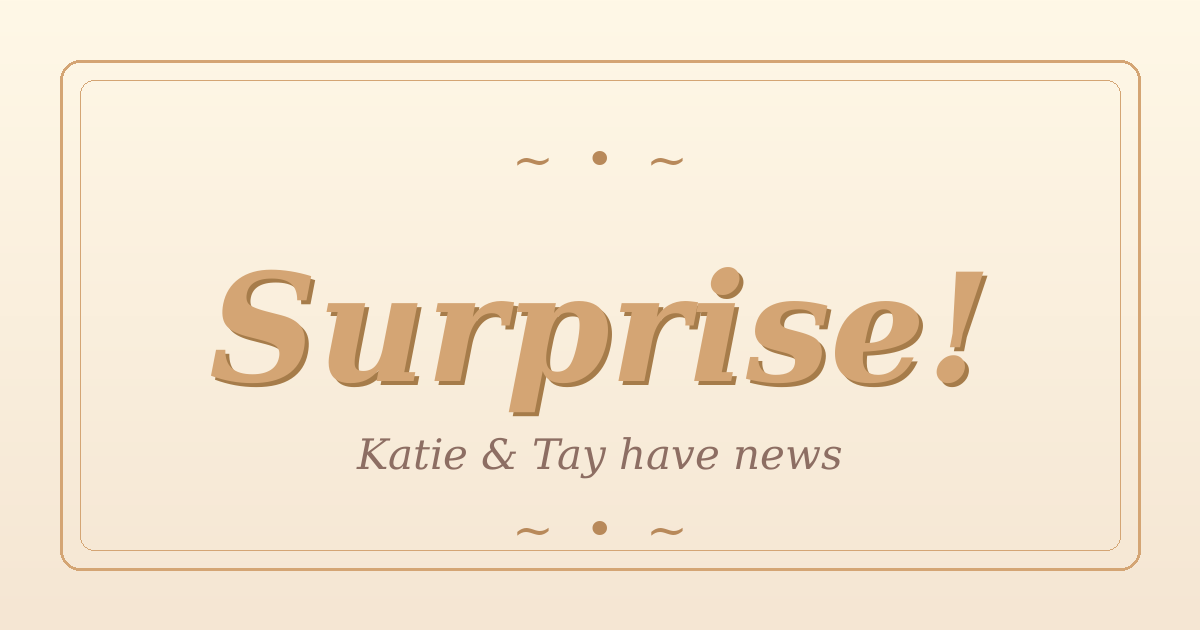
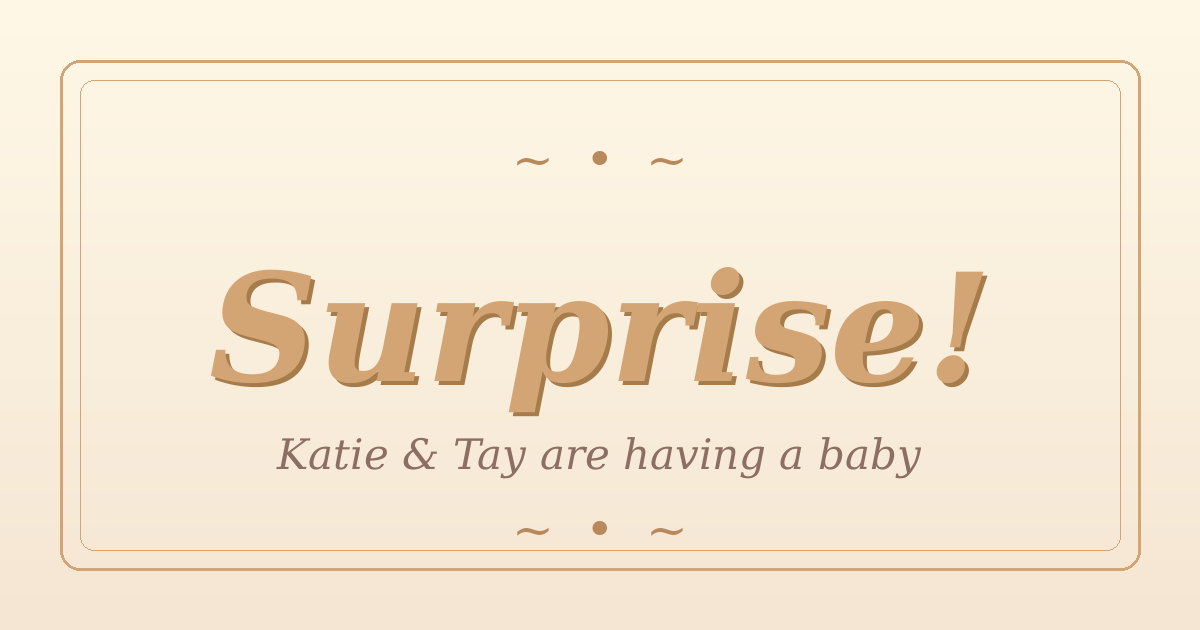
Add files via upload

Changed region(s): [[0.2158, 0.6937, 0.7708, 0.754]]

diff --git a/index.html b/index.html
@@ -3,18 +3,18 @@
 <head>
 <meta charset="UTF-8">
 <meta name="viewport" content="width=device-width, initial-scale=1.0">
-<title>Katie & Tay have news!</title>
+<title>Katie & Tay are having a baby!</title>
 
 <!-- Link preview tags (iMessage, WhatsApp, Facebook, etc.) -->
-<meta property="og:title" content="Katie & Tay have news!">
-<meta property="og:description" content="A surprise is waiting for you...">
+<meta property="og:title" content="Katie & Tay are having a baby!">
+<meta property="og:description" content="Is it a boy or a girl?">
 <meta property="og:image" content="preview.png">
 <meta property="og:type" content="website">
 
 <!-- Twitter/X preview -->
 <meta name="twitter:card" content="summary_large_image">
-<meta name="twitter:title" content="Katie & Tay have news!">
-<meta name="twitter:description" content="A surprise is waiting for you...">
+<meta name="twitter:title" content="Katie & Tay are having a baby!">
+<meta name="twitter:description" content="Is it a boy or a girl?">
 <meta name="twitter:image" content="preview.png">
 
 <style>
@@ -174,7 +174,7 @@
   <!-- Initial screen -->
   <div class="intro" id="intro">
     <h1>A Little Surprise...</h1>
-    <p>Someone special wanted to share some exciting news with you!</p>
+    <p>Katie and Tay wanted to share some exciting news with you!</p>
     <button class="reveal-btn" onclick="reveal()">Tap to Reveal 🍼</button>
   </div>
 
